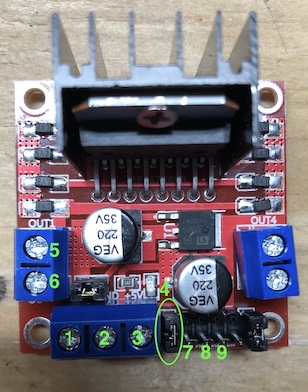
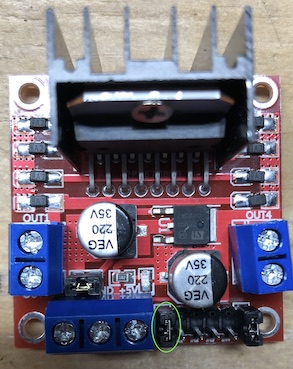
fixed images, added text to descriptions

diff --git a/src/views/PythonPage.js b/src/views/PythonPage.js
@@ -45,21 +45,34 @@ const paragraph_4 = 'From that point the project needed to be wired up to a moto
 const paragraph_4_1 = 'I then wired the controller to the pi and programmed the pi to cycle the motor. After completing that I ' +
   'signed up for a developer account with google and authorized my account for API access following their instructions.';
 
-const paragraph_5 = 'Then it was a matter of programming to algorithm to make the api calls and coordinate that with the ' +
-  'pi to actuate the motor. I settled on making a request every 5 minutes to check the status of the thermostat. Based on that ' +
-  'response it would either cycle the motor or check again in 5 minutes. Logic was also included to not spray the air conditioner ' +
-  'at night while we are sleeping to avoid unnecessary use.';
+const paragraph_5 = 'This simply shows the jumper that will need to be removed if you are not using a stepper motor. Since I am using a ' +
+  'DC motor, and only one at that, I removed this jumper to expose the pins below.'
 
-const paragraph_6 = 'The last stage of the project was to implement a method to manually spray the air freshener when desired. This ' +
+const paragraph_6 = 'Now then, for a breakdown of the L298N board. #1 and #2 are the DC motor + and - respectively. #3 is the power supply ' +
+  'for the board itself. This needs to be a minimum of 5v and separate from the pi to avoid overloading it\'s pinout and damaging the Pi. ' +
+  'I chose to use a 10v usb wall charger. #4 is the ground for the board. This needs to be connected to both the discrete power supply and ' +
+  'the Pi\'s ground. #5 is a 5v output powered by the power supply if needed. #6 is the pin to enable the board controller for the motor. ' +
+  'Simply sending this pin a high signal will allow the board to control the motor. If you want to use PWM to control your motor, connect #6 to ' +
+  'a PWM pinout on the Pi. #7 and #8 are IN1 and IN2 respectively. This is use to control the motors direction. IN1 set to high and IN2 set to low ' +
+  'will cause the motor to turn in one direction ane vice versa will cause it to turn in the other direction.'
+
+const paragraph_7 = 'Below is the complete project. #1 - There are several large holes for the fan here to pull air into th case with the idea being ' +
+  'to push air over the heat sinks on the pi and the controller to the exhaust holes on the side at #2. #3 are the wires used to control the motor. ' +
+  'Referencing the picture above; #6 is the enable pin which I connected to GPIO12, #7 is IN1 which I connected to GPIO23 used for making the motor ' +
+  'move forward, lastly #8 is IN2 which I connected to GPIO24 to make the motor move in reverse. All the wires leading out of the case were soldered to ' +
+  'quick release connectors for making repairs without needing to manage cumbersome cords.'
+
+const paragraph_8 = 'From there it was a matter of determining the method for making the api calls and coordinate that with the ' +
+  'Pi to actuate the motor. I have a Google Nest thermostat so this was accomplished with their REST API. ' +
+  'I settled on making a request every 5 minutes to check the status of the thermostat. Based on the ' +
+  'response received it would either cycle the motor or check again in 5 minutes. Logic was also included to not spray the air conditioner ' +
+  'at night while we are sleeping to avoid unnecessary use. This also used OAuth2 to ensure secure and authorized API calls.';
+
+const paragraph_9 = 'The last stage of the project was to implement a method to manually spray the air freshener when desired. This ' +
   'was achieved with the Python framework Flask. It serves a simple (for now) website with a button that, when clicked, sends a ' +
   'command to the pi instructing it to cycle the motor and run the hvac system fan for 15 minutes effectively dispersing it throughout ' +
-  'the home.';
-
-const paragraph_x = 'Lorem ipsum dolor sit amet, consectetur adipiscing elit. Donec finibus mauris sit amet lorem pretium, ' +
-  'et pulvinar lorem volutpat. Fusce accumsan massa lectus, in lobortis turpis sagittis sed. Aliquam eget augue sit amet risus ' +
-  'consequat aliquet ut in ligula. Suspendisse odio dolor, eleifend a purus quis, finibus vestibulum nibh. Vestibulum consectetur ' +
-  'sit amet odio non fringilla. Aenean quis orci in massa vehicula pretium. Interdum et malesuada fames ac ante ipsum primis in ' +
-  'faucibus. Maecenas varius cursus suscipit. Maecenas eu turpis velit. Phasellus nec tortor sapien. Nunc hendrerit eu enim at feugiat.'
+  'the home. For improved security this is only accessible locally but it will be upgraded to a full fledged progressive web app as time ' +
+  'goes on.';
 
 const useStyles = makeStyles((theme) => ({
   root: {
@@ -68,14 +81,12 @@ const useStyles = makeStyles((theme) => ({
   },
   flex_center: {
     display: 'flex',
-    // flexWrap: 'wrap',
     '@media (max-width: 40em)': {
       flexWrap: 'wrap'
     },
     justifyContent: 'center',
     paddingBottom: theme.spacing(4),
-    paddingTop: theme.spacing(2),
-    // margin: theme.spacing(1)
+    paddingTop: theme.spacing(2)
   },
   centerImg: {
     display: 'flex',
@@ -139,27 +150,27 @@ const PythonPage = () => {
       </Container>
 
       <Container maxWidth={'md'} className={classes.flex_center}>
-        <Typography className={classes.root}>{paragraph_x}</Typography>
+        <Typography align={'center'} className={classes.root}>{paragraph_5}</Typography>
         <img className={classes.padImage} src={controller_w_jumper} alt={cont_w_jumper_alt}/>
       </Container>
 
       <Container maxWidth={'md'} className={classes.flex_center}>
-        <Typography className={classes.root}>{paragraph_x}</Typography>
+        <Typography align={'center'} className={classes.root}>{paragraph_6}</Typography>
         <img className={classes.padImage} src={controller_wo_jumper} alt={controller_wo_jumper}/>
       </Container>
 
       <Container maxWidth={'md'} className={classes.centerImg}>
-        <Typography className={classes.root}>{paragraph_x}</Typography>
+        <Typography align={'center'} className={classes.root}>{paragraph_7}</Typography>
         <img src={project_box_guts} alt={box_guts_alt}/>
       </Container>
 
       <Container maxWidth={'md'}>
         <Typography align={'center'} className={classes.root}>
-          {paragraph_5}
+          {paragraph_8}
         </Typography>
 
         <Typography align={'center'} className={classes.root}>
-          {paragraph_6}
+          {paragraph_9}
         </Typography>
 
         <Typography align={'center'} className={classes.root}>
